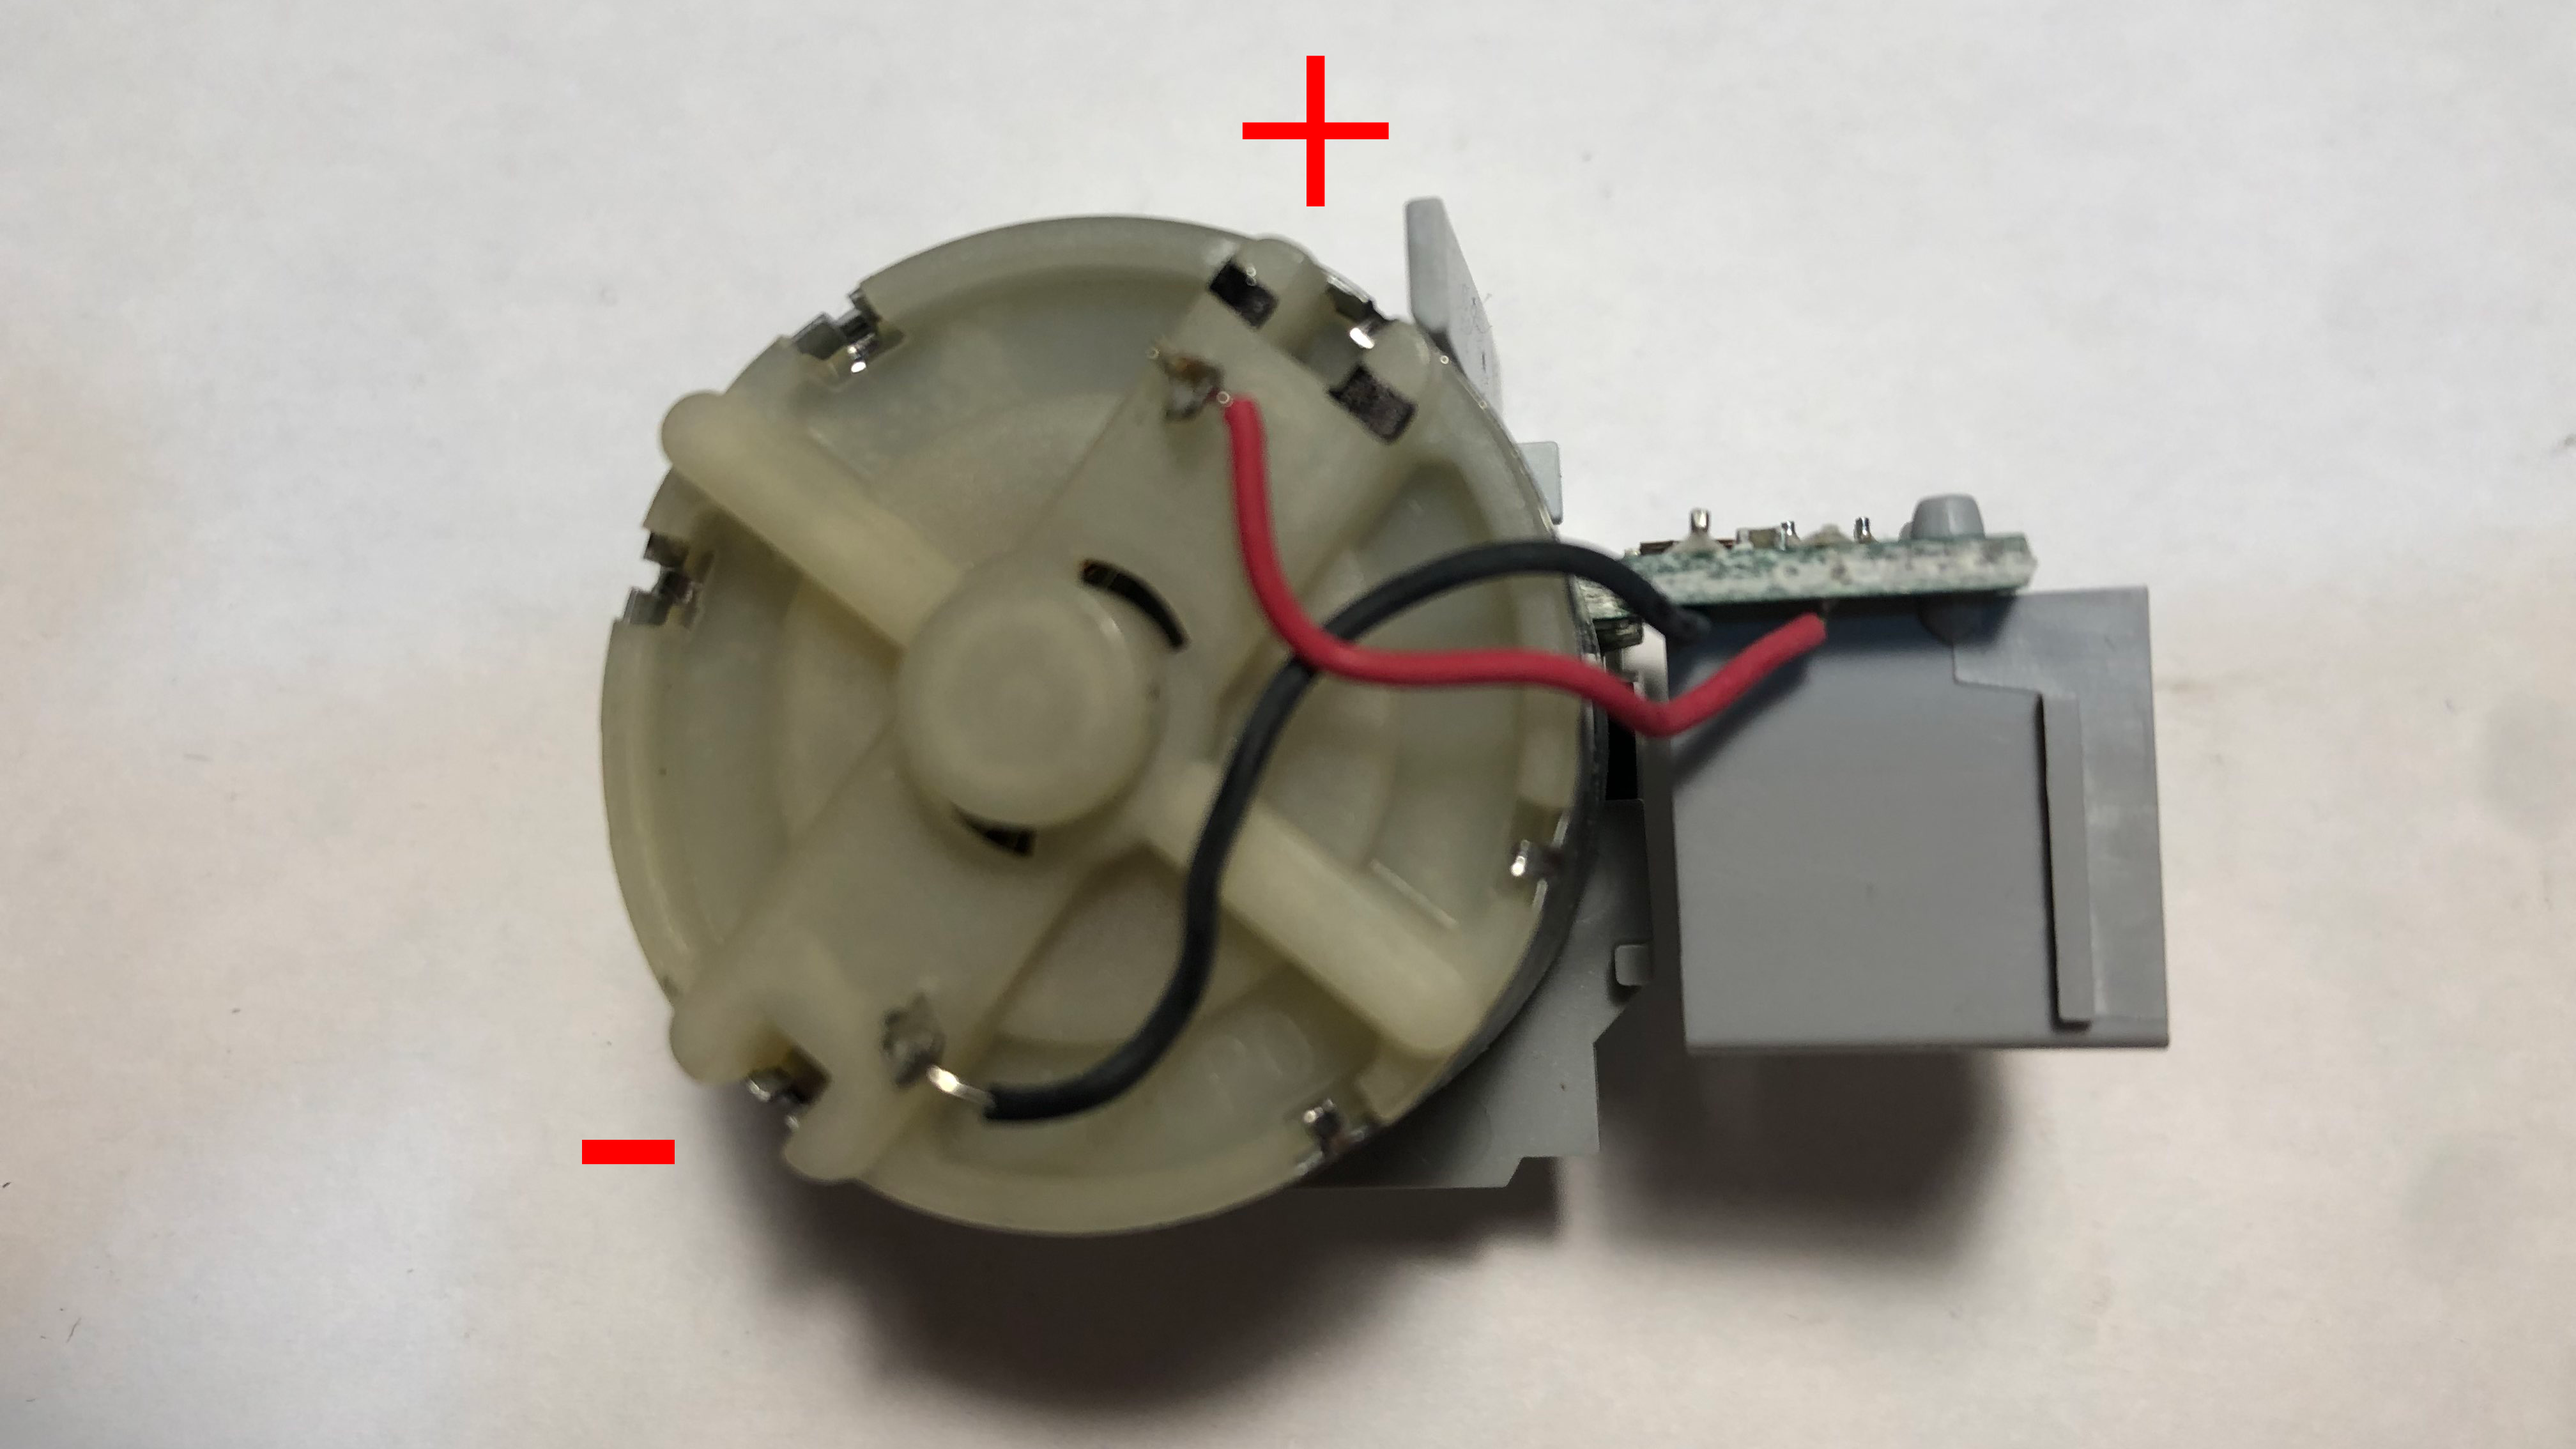
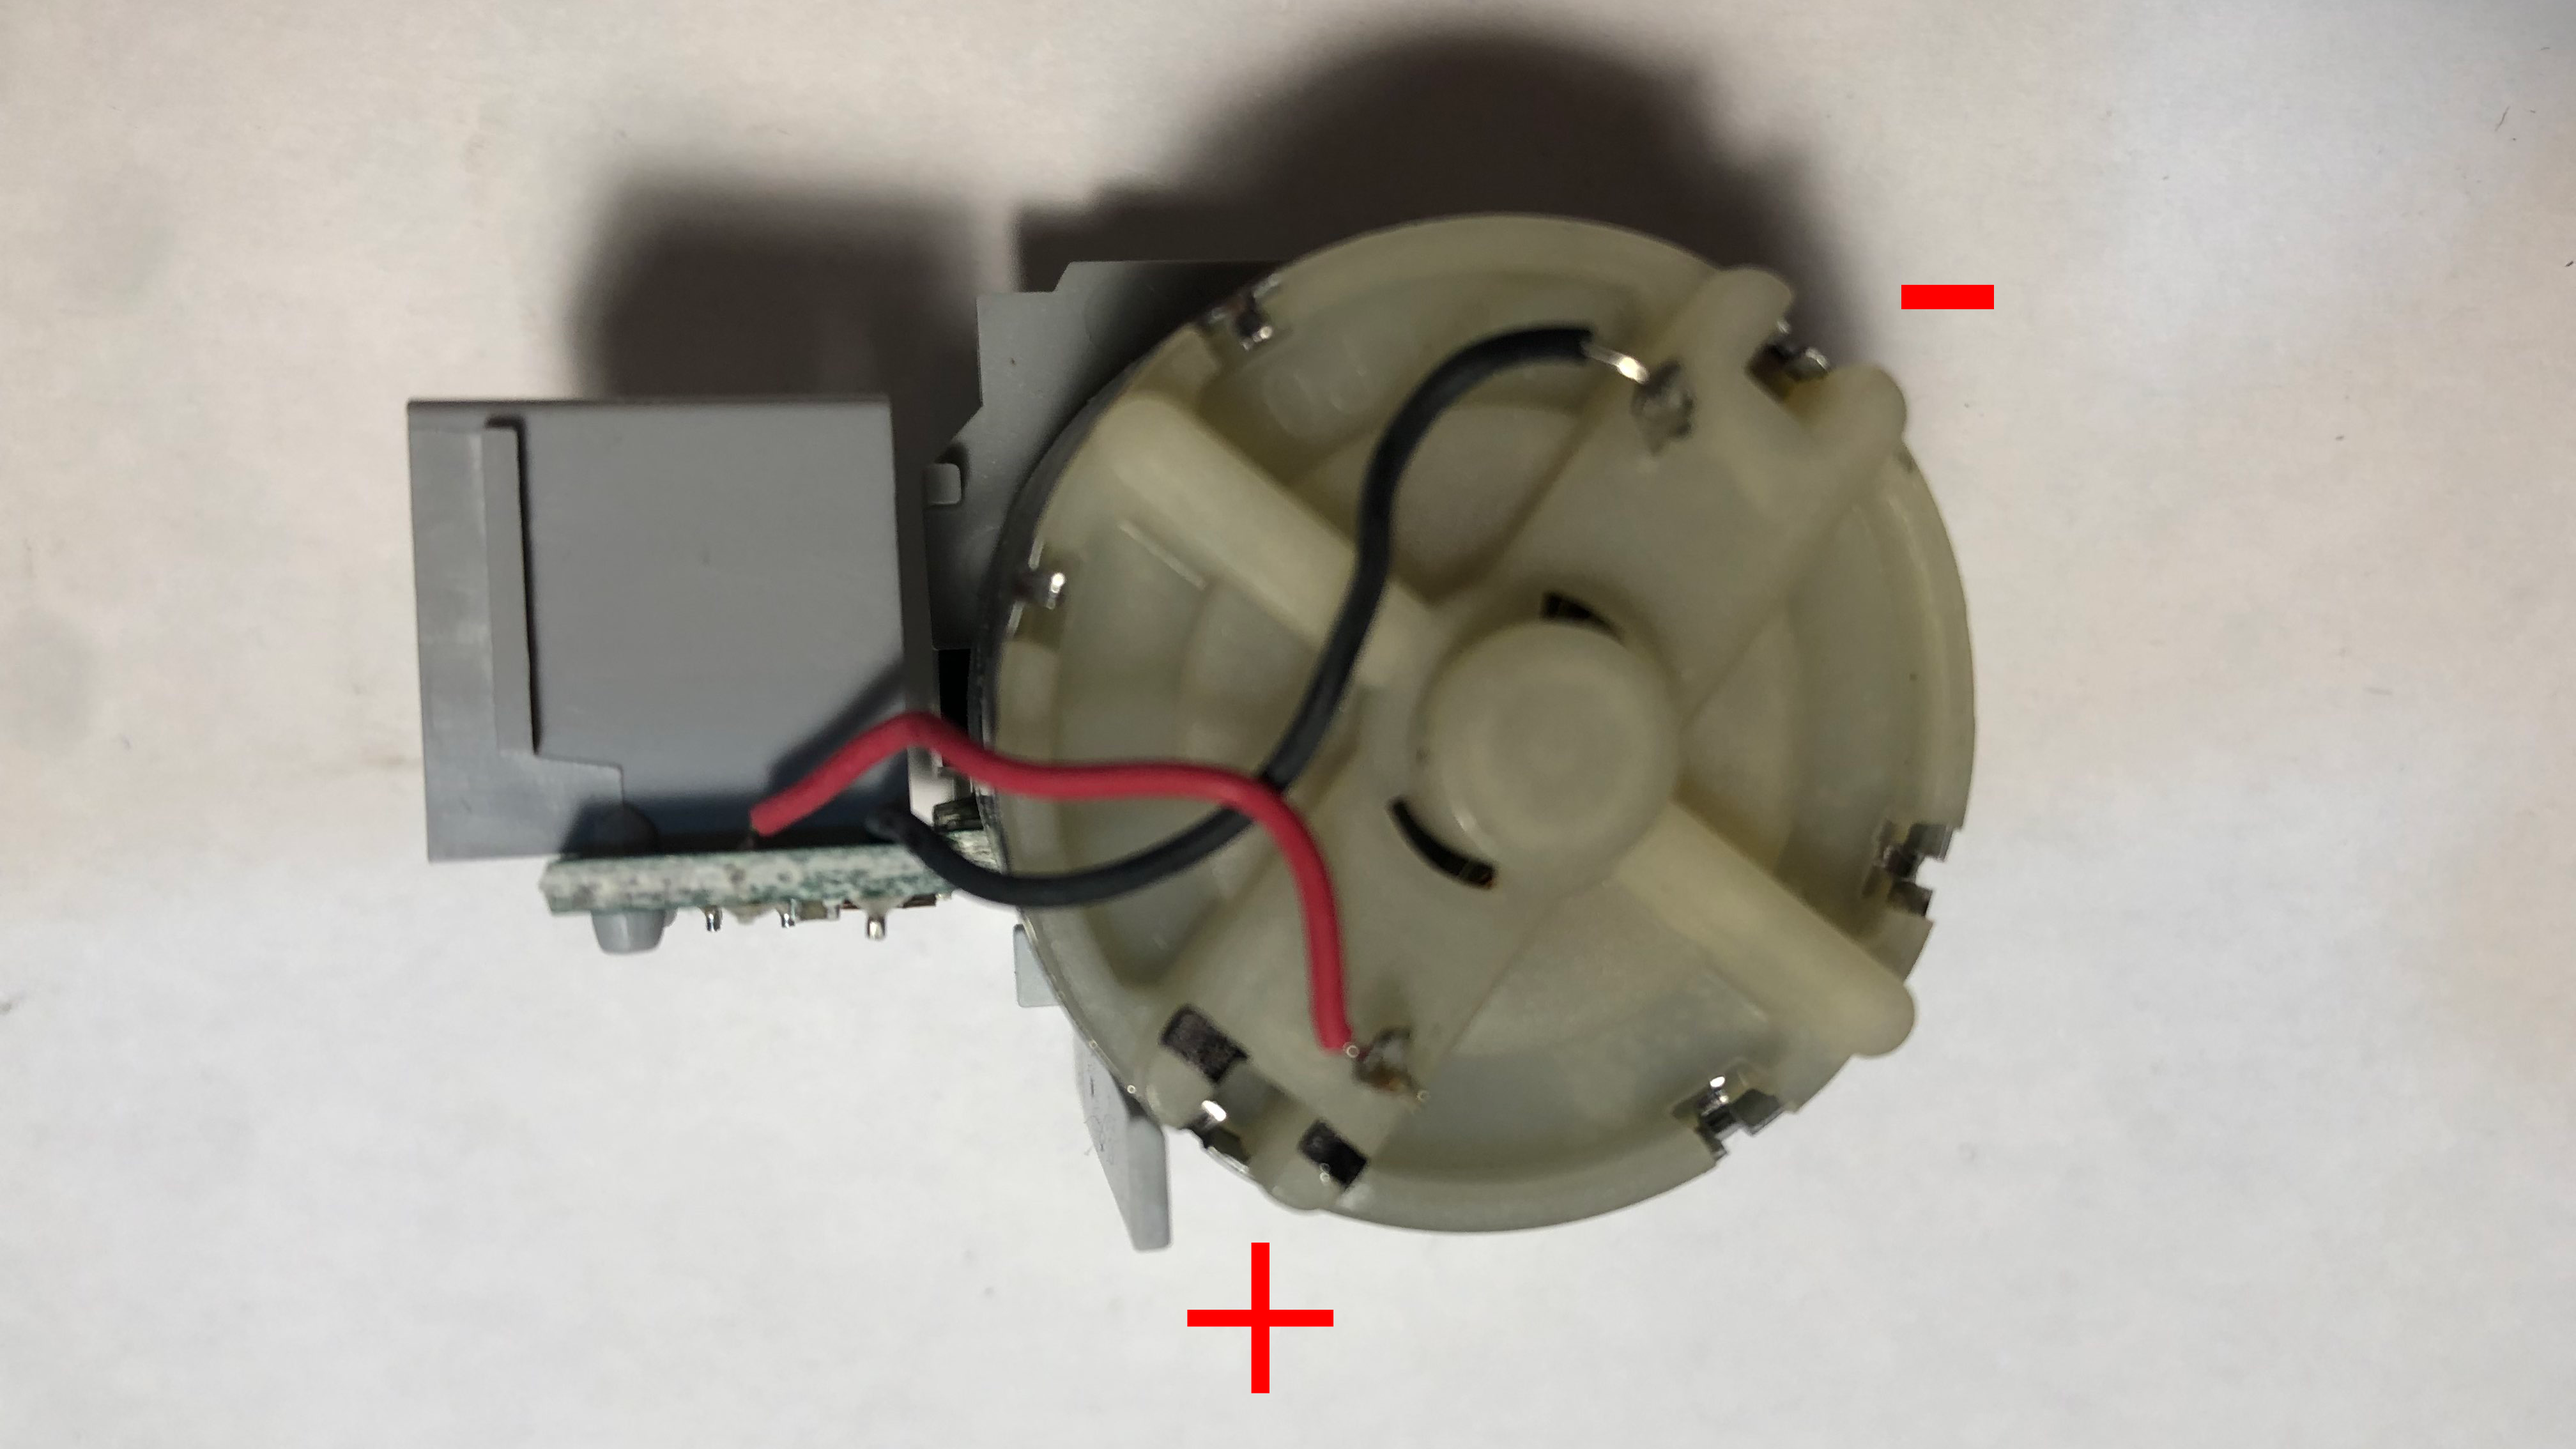
Medium motor final touch

diff --git a/README.md b/README.md
@@ -1,7 +1,7 @@
 # Lego Mindstorm EV3 Repair Guide
 
 ## EV3 Large Motor (Motor Replacement)
-<img src="/images/motor.png" width="400">
+<img src="/images/large_motor.png" width="400">
 
 ### Motor For Replacement
 | Model | Description | Remarks |
@@ -15,7 +15,7 @@
 - Tweezers
 - Long nose pliers
 - Solder
-- Gear lubricant **(optional)**
+- Gear grease **(optional)**
 
 ### Procedures
 1. Remove white cover using minus tip screwdriver starting from top
@@ -24,7 +24,7 @@
 4. Remove black gear together with needle before unscrewing motor cover plate
 5. Transfer chipset to new motor using solder **(red wire -> + sign of motor)**
 6. Transfer pinion gear to new motor using pliers with butane jet lighter **(skip if motor comes with pinion gear)**
-7. Apply gear lubricant before putting everything back in **(optional)** 
+7. Apply gear grease **(optional)** before putting everything back in 
 
 ### Images for References (Large Motor)
 #### Step 1
@@ -49,28 +49,27 @@
 
 ---
 ## EV3 Medium Motor (Motor Replacement)
+<img src="/images/medium_motor.png" width="400">
+
 ### Procedures
 1. Insert minus tip screwdriver into one side of body by dislocating both square brackets before inserting to other side
-2. Extract chipset attached with motor & remove solder on motor attached chipset
-3. Insert upward force to separate chipset from motor attachment
-4. Insert upward force to motor from attachment until back of motor is shown
-5. Insert downward force to remove motor from attachment
-6. Transfer pinion gear to new motor using pliers with butane jet lighter **(skip if motor comes with pinion gear)**
-7. Apply gear lubricant before putting everything back in **(optional)** 
+2. Remove solder on motor attached chipset & insert upward force to separate chipset from motor attachment
+3. Insert upward force to motor from attachment until back of motor is shown
+4. Insert downward force to remove motor from attachment
+5. Transfer pinion gear to new motor using pliers with butane jet lighter **(skip if motor comes with pinion gear)**
+6. Apply gear grease **(optional)**  before putting everything back in 
 
 ### Images for References (Medium Motor)
 #### Step 1
 <img src="/images/img (10).png" width="400">
 
 #### Step 2
-<img src="/images/img (11).png" width="400">
+<img src="/images/img (11).png" width="400"><img src="/images/img (12).png" align="right" width="400"/>
 
-#### Step 3
-<img src="/images/img (12).png" width="400">
+#### Step 3 & 4
+<img src="/images/img (13).png" width="400"><img src="/images/img (14).png" align="right" width="400"/>
 
-#### Step 5
-<img src="/images/img (13).png" width="400">
-
+---
 ### Disclaimer
 Content above are non-official & all from my DIY experiences. 
 
